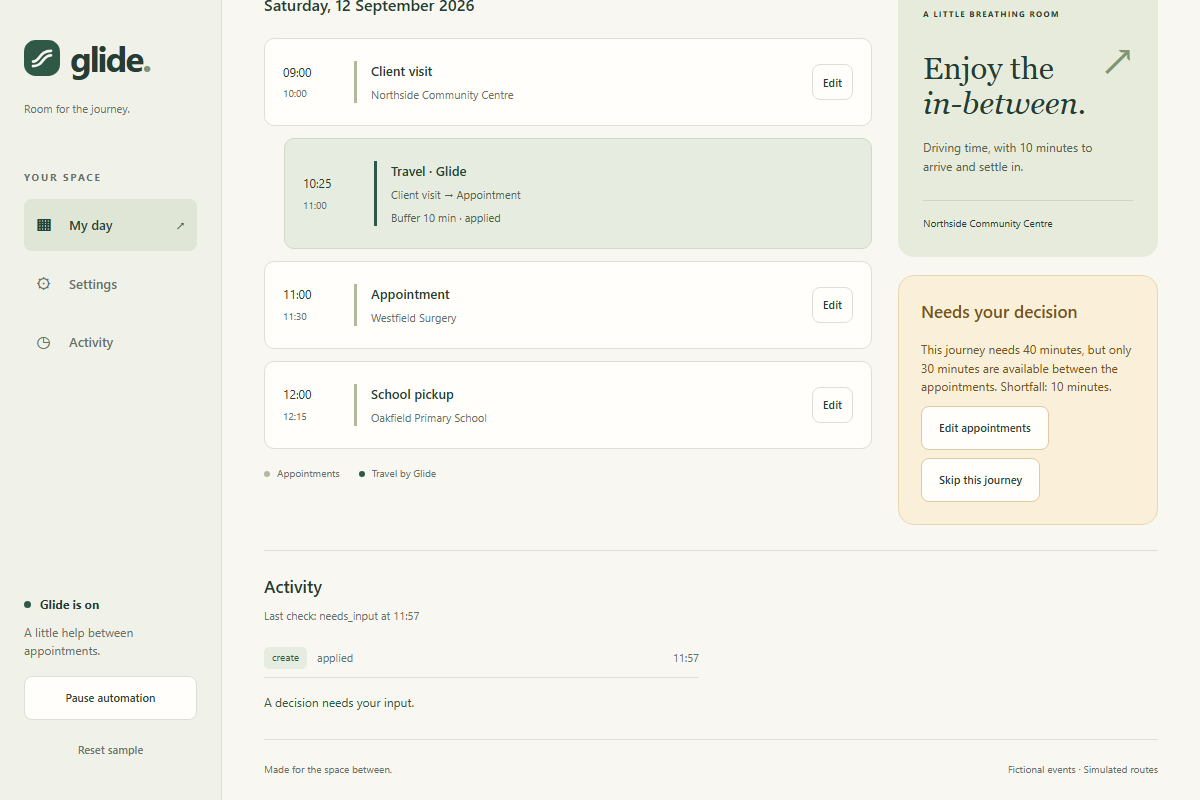
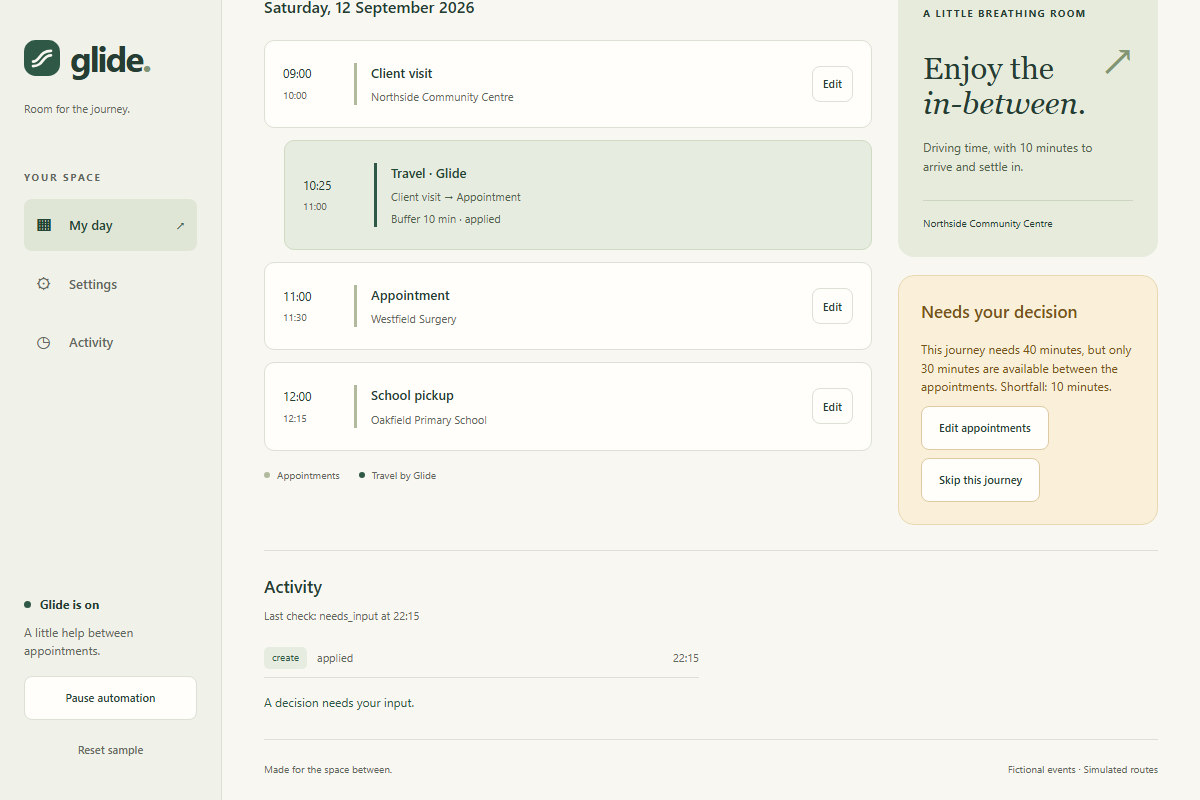
Publish the measured live proof and refresh the submission
evaluation.md now records what was measured against the deployed stack rather than what was planned: 20.7 s for the first live run with two travel blocks, ten consecutive terminal runs at 10.3-15.5 s, idempotent repeats, manual edit/deletion respected, a browser-closed scheduled run, and the four agent-loop defects the live runs exposed. The story, demo script, fields and release checklist are brought in line with that evidence, the style guide and live runbook pick up the shell/colour changes, and the screenshots are recaptured from the deployed build.

decisions.md records why managed blocks are coloured green in the primary calendar rather than living in a second calendar: it needs no new OAuth scope and so forces no reconnect.

diff --git a/docs/account-setup.md b/docs/account-setup.md
@@ -1,37 +1,21 @@
 # Glide account setup: your next actions
 
-Prepared 10 September 2026. The current requirement is to write Glide-owned
-travel events into the user's primary Google calendar. The application still
-needs changes before testing that behavior; the older separate-calendar setup
-instructions do not describe the requested release.
+Updated 11 September 2026. The current requirement is to write Glide-owned
+travel events into the user's primary Google calendar. The application and
+AWS deployment are complete; only the Google browser steps below remain.
 
 ## 1. AWS: establish a local login
 
-AWS CLI was not available on the command path during this review. Install the
-Windows AWS CLI v2 package using the [official installation guide](https://docs.aws.amazon.com/cli/latest/userguide/getting-started-install.html),
-then open a fresh PowerShell window. This session cannot install programs outside
-the project because its filesystem permissions are restricted.
+Done. AWS CLI v2 and SAM CLI are installed, the `glide` profile authenticates
+(root login session, `eu-west-1`), Amazon Location Places/Routes work, and
+Bedrock `eu.amazon.nova-2-lite-v1:0` answers real calls. The stack `glide` is
+deployed and the public site is `https://d3tvxy281s2u11.cloudfront.net`.
 
-For an ordinary AWS console login, run:
+No further AWS browser steps are required right now.
 
-```powershell
-aws --version
-aws login --profile glide
-```
-
-Complete the browser sign-in yourself. Start with `eu-west-1` if prompted for
-a region; model and routing availability still need verification. The login
-requires CLI v2.32.0 or newer and appropriate identity permissions. If you use
-IAM Identity Center, use its SSO setup instead. If a permission error appears,
-share its message without credentials. [AWS login instructions](https://docs.aws.amazon.com/cli/latest/userguide/cli-configure-sign-in.html)
-
-Tell the agent: **"AWS profile glide is signed in."** Do not paste keys or
-cached tokens. The agent can verify the account and SDK access, select the
-model, configure cost monitoring, and prepare SAM deployment.
-
-The repository now has an ignored `.env` with `AWS_PROFILE=glide` and
-`AWS_REGION=eu-west-1`. After signing in, load it into each new PowerShell
-window from the repository root with:
+The repository has an ignored `.env` with `AWS_PROFILE=glide` and
+`AWS_REGION=eu-west-1`. Load it into each new PowerShell window from the
+repository root with:
 
 ```powershell
 . .\scripts\load_env.ps1
@@ -47,8 +31,9 @@ window from the repository root with:
    For a personal Gmail test account, use an external testing audience and add
    the designated test account under test users.
 4. Under **Clients**, create a client of type **Web application** named
-   `Glide local and hosted`. Register this authorized redirect URI exactly:
-   `http://localhost:8000/api/auth/google/callback`.
+   `Glide local and hosted`. Register these authorized redirect URIs exactly:
+   `http://localhost:8000/api/auth/google/callback` and
+   `https://d3tvxy281s2u11.cloudfront.net/api/auth/google/callback`.
 5. Save the downloaded client configuration privately inside this repository
    at `secrets/google-oauth-client.json` (create the `secrets` folder if needed).
    If the console instead supplies individual values, save `GOOGLE_CLIENT_ID`
@@ -67,11 +52,10 @@ Glide-created events; the application must enforce that restriction itself.
 The old `calendar.app.created` scope cannot authorize primary-calendar writes.
 [Google Calendar scopes](https://developers.google.com/workspace/calendar/api/auth)
 
-Tell the agent the project ID and saved configuration path. The agent will wire
-the runtime settings and give you the hosted callback to register after the
-hosting address is known. Later, you will click Connect and consent in your
-browser. No call or screen-sharing session is required; remain available to
-complete these browser steps when prompted.
+The client configuration is already saved locally and wired into `.env`. When
+ready, tell the agent; you will click Connect and consent in your browser. No
+call or screen-sharing session is required; remain available to complete the
+browser steps when prompted.
 
 Import the downloaded web-client file into the ignored `.env`; this also
 generates the local cookie secret without printing either secret:

diff --git a/submission/release-checklist.md b/submission/release-checklist.md
@@ -19,21 +19,22 @@ Checked items require captured evidence; leave unchecked rather than claim.
 - [x] Durable sample sessions across worker instances
 - [x] Decision notification policy: once-only send, retry on failure, and a
       signed-in-only settings guard covered by tests
-- [ ] Real Google read/write with evidence. Consent done and tenant
-      `google:<subject>` is enabled, but every live run so far
-      failed `AgentProposalMissing` or stayed `queued`; the tenant has no
-      blocks, decisions, or receipts
-- [ ] Deployed agent-loop fix (turns 24 + prompt rules, currently in the
-      working tree) rebuilt, redeployed, and observed to reach a terminal
-      status on a live run
-- [ ] FIFO message group drains after that deploy; the four stuck runs finish
-      and the DLQ returns to zero
+- [x] Real Google read/write with evidence. Tenant
+      `google:<subject>`: two `Travel / Glide` blocks written in
+      20.7 s, ten consecutive live runs terminal (10.3-15.5 s), repeats
+      `unchanged`, manual edit/deletion respected, disconnect revoked the grant
+- [x] Deployed agent-loop fix (turns 24, prompt recipe, tool-first turns,
+      server-side `unknown_start`, fresh-agent repair) redeployed and observed
+      to reach a terminal status on live runs
+- [x] FIFO message group drains and both queues return to zero (job queue and
+      dead-letter queue 0 visible / 0 in flight)
 - [ ] Real SES decision email delivered once; an unresolved repeat sends
       nothing (needs a verified sending identity)
 - [x] Real Amazon Location place + route (live smoke, 513 s driving estimate)
 - [x] Real Bedrock Strands tool call (live smoke, `create feasible destination`)
 - [x] Ten consecutive canonical runs (fixture providers, deterministic runner)
-- [ ] Ten consecutive runs against live providers, identified
+- [x] Ten consecutive runs against live providers, identified (`live`,
+      Bedrock + Amazon Location + Google Calendar; 10.3-15.5 s each)
 
 ## Quality gates
 
@@ -44,19 +45,21 @@ Checked items require captured evidence; leave unchecked rather than claim.
 - [x] `scripts/validate_template.py` green
 - [x] Clean-copy setup trial (`scripts/clean_setup_trial.ps1`) green
 - [x] `sam validate --lint` green; Linux Lambda bundle built
-- [ ] Worker `ScalingConfig.MaximumConcurrency=2` codified in
-      `infra/template.yaml` (today it exists only on the live mapping)
+- [x] Worker `ScalingConfig.MaximumConcurrency=2` codified in
+      `infra/template.yaml`, with an offline validator check that fails if it
+      is dropped again; deploys with the next stack update
 - [ ] WAF rate-based rule on the distribution (N9; not started)
 - [ ] Two unfamiliar testers resolve a conflict unassisted
 - [x] AWS stack deployed (`glide`, eu-west-1); one deployed sample check
       completed through SQS/worker/Bedrock (one block, one decision)
-- [ ] Deployed move/recheck idempotency and scheduled browser-closed run observed
+- [x] Deployed repeat idempotency (all receipts `unchanged`) and a
+      browser-closed scheduled run reaching terminal status
 
 ## Release artifacts
 
 - [x] `docs/architecture.svg` + `docs/architecture.png` exported
 - [x] Git repository initialized with an initial commit (secrets audited out)
-- [ ] Public remote created and pushed; repo loads signed out
+- [x] Public remote created and pushed; repo loads signed out
 - [x] Deployed URL serves and `/api/health` returns ok (re-verify signed-out at
       submission)
 - [x] Four 3:2 gallery screenshots (landing, timeline, decision, activity)

diff --git a/submission/devpost-story.md b/submission/devpost-story.md
@@ -53,14 +53,20 @@ retry, or cold worker never repeats a message.
 
 ## Accomplishments
 
-Offline-verified as of 11 September 2026 (real-provider measurements are
-recorded only after the account setup below is complete):
+Verified on 11 September 2026 against the deployed stack, including the live
+Google account:
 
 - The browser workflow passes four end-to-end judge-path checks: sample day,
   conflict decision with a quantified ten-minute shortfall, resolve, recheck
   with two updated blocks and no duplicates, and reset. A repeat run records
   an `unchanged` receipt instead of a second calendar event.
-- 323 automated tests pass alongside lint, typecheck, and a production
+- Against the owner's real Google account the deployed agent wrote two
+  `Travel / Glide` blocks in 20.7 seconds, then completed ten consecutive
+  maintenance runs in 10.3-15.5 seconds each with no failures. Moving a Glide
+  block raised a `manual_edit` decision instead of overwriting it, deleting one
+  raised a `manually_deleted` decision instead of recreating it, and a run
+  scheduled with the browser closed finished on its own.
+- 326 automated tests pass alongside lint, typecheck, and a production
   build. The recovery matrix covers a worker crash after the first provider
   write, idempotent reruns, cross-tenant run access returning 404, and a
   padding change updating the block on recheck.
@@ -110,13 +116,19 @@ account was used, each now fixed with a regression test:
   be recreated on the next run. Ownership checks, manual-override guards,
   and revision-scoped skips now make those choices durable.
 
-The Google account is connected, but the deployed planner has not yet
-produced an accepted proposal: every live run so far ended
-`AgentProposalMissing` or stayed queued, so the first real calendar write is
-still outstanding. A prompt and turn-budget fix is in the working tree,
-pending a redeploy and re-verification. Ambiguous venues, OAuth test-token
-expiry, and timeout retries remain to be measured against real providers and
-will be added here with their outcomes.
+The live planner took four real defects to stabilize, each found by running
+the deployed worker against the real calendar rather than a fixture: the
+proposal schema advertised actions the validator always rejects, places
+resolved through `lookup_place` were not acceptable to `estimate_journey`, the
+model was asked to decide a start-address journey that had no start address,
+and the repair pass tried to continue a conversation Bedrock refuses after a
+turn-cap stop. With those fixed, the first live run completed in 20.7 seconds
+and wrote two travel blocks; ten consecutive live runs then completed in
+10.3-15.5 seconds each, repeats were idempotent, manually edited and manually
+deleted blocks were respected, and a scheduled run finished with the browser
+closed. A separate timezone bug made Glide's own blocks look hand-edited on
+every repeat, because the content hash compared a UTC write with a
+London-offset read.
 
 ## What we learned
 

diff --git a/docs/evaluation.md b/docs/evaluation.md
@@ -110,6 +110,50 @@ a one-retry guard for transient proxy keep-alive failures in the API client.
 - Known remaining issue: some deployed runs fail with `AgentProposalMissing`
   when the agent's turn budget is reached; this is being hardened.
 
+## Live Google proof (measured, 2026-09-11)
+
+Tenant: the owner's dedicated Google test account (primary calendar), driven
+through the deployed stack in `eu-west-1`. Fictional appointments were seeded
+for 12 September (Big Ben 09:30, The Shard 12:15, Canary Wharf 15:30, London)
+and deleted again after the run.
+
+- First live maintenance run: `needs_input` in **20.7 s**, two `Travel / Glide`
+  blocks written to the primary calendar, one `unknown_start` decision (no
+  start address configured), three source appointments untouched.
+- Idempotent repeat: both journeys returned `unchanged`/`noop` receipts, no
+  duplicate provider events, no false manual-edit decisions.
+- Manual edit: moving a Glide block raised a `manual_edit` decision
+  (`keep_manual_edit` / `replace_with_plan` / `skip_journey`) and the edited
+  block was not overwritten.
+- Manual deletion: deleting a Glide block raised a `manually_deleted` decision
+  (`recreate_journey` / `skip_journey`) and the block was not recreated.
+- Pause: a run while paused returned `paused` with no writes; resume restored
+  automation.
+- Ten consecutive live sequences: all ten reached a terminal status, latency
+  10.3-15.5 s (mean 11.3 s); receipts across the batch were `create: applied`
+  x2, `noop: unchanged` x3, `update: applied` x4; no failures.
+- Scheduled maintenance with the browser closed: the dispatcher reported
+  `enqueued: 1`, and the `trigger=schedule` run reached terminal `needs_input`
+  in DynamoDB.
+- Disconnect: `POST /api/auth/logout` returned `disconnected` with one warning
+  (manually edited travel events are kept); settings flipped to paused, a
+  later calendar read failed with a Google `RefreshError`, and
+  `/api/auth/status` reported `connected: false` with the provider still
+  available.
+- Alarms at close: `glide-api-5xx`, `glide-api-throttles`, `glide-dlq-depth`,
+  and `glide-worker-errors` all `OK`; job queue and dead-letter queue both 0
+  visible / 0 in flight.
+
+## Agent loop hardening (measured, 2026-09-11)
+
+Four defects made the deployed live loop fail with `AgentProposalMissing`:
+the proposal schema advertised actions the validator always rejects, places
+resolved through `lookup_place` were not acceptable to `estimate_journey`, the
+model was required to decide a `start_place` pair with no configured start
+address, and the repair pass continued a conversation Bedrock refuses after a
+turn-cap stop. After the fixes the real Nova Lite loop converged on the first
+pass in 5 tool calls and produced three accepted plans.
+
 ## Planned, not yet measured
 
 - Ten consecutive canonical integrated runs and how many used live providers.

diff --git a/submission/fields.md b/submission/fields.md
@@ -17,7 +17,8 @@ Owner-only entries are marked **[OWNER]**. Never invent these values.
 | Built With | `strands-agents-sdk`, `python`, `amazon-bedrock`, `amazon-location-service`, `google-calendar-api`, `amazon-ses`, `aws-lambda`, `amazon-eventbridge`, `amazon-sqs`, `amazon-dynamodb`, `amazon-s3`, `amazon-cloudfront`, `amazon-api-gateway`, `react`, `typescript`, `fastapi`, `aws-sam` |
 | Public repository | https://github.com/harveybellini/glide (public, default branch `main`, MIT detected, CI green, loads signed out) |
 | Video | [OWNER] public YouTube/Vimeo URL, ≤5 minutes |
-| Live demo URL | https://d3tvxy281s2u11.cloudfront.net (root and `/api/health` verified; re-verify signed-out at submission) |
+| Live demo URL | https://d3tvxy281s2u11.cloudfront.net (root and `/api/health` verified 11 Sep; the sample path is anonymous and simulated, the live path needs the owner's Google account - label it that way in the submission) |
+| Live proof | Owner's Google test account: two `Travel / Glide` blocks written in 20.7 s, ten consecutive live runs 10.3-15.5 s, repeats `unchanged`, manual edit/deletion respected, scheduled run terminal, grant revoked on disconnect (`docs/evaluation.md`) |
 | AWS Builder ID | [OWNER] real identifier |
 | Screenshots | 4 × 3:2 gallery from `submission/screenshots/`: `01-landing`, `02-timeline`, `03-decision`, `04-activity`; `05`-`08` hold the mobile and full-page design captures |
 | Eligibility/profile | [OWNER] checked against current official rules |
@@ -26,5 +27,5 @@ Owner-only entries are marked **[OWNER]**. Never invent these values.
 
 - [ ] Devpost shows **Submitted** with a receipt, not a saved draft.
 - [x] Repo loads signed out; MIT license detected; no secrets committed (tracked-file secret scan).
-- [ ] Live URL labeled with accurate synthetic/live wording.
+- [x] Live URL labeled with accurate synthetic/live wording (sample = simulated routes; live path = owner's Google account).
 - [ ] Optional AWS Builder article public before the deadline.

diff --git a/submission/demo-script.md b/submission/demo-script.md
@@ -1,8 +1,11 @@
 # Video script — target 4 minutes 30 seconds
 
-Record with real accounts. Bedrock, Amazon Location, and the deployed pipeline
-already have live evidence; Google consent is the remaining dependency. Actual
-values, not fixtures, appear on screen. Cut any beat whose evidence is missing.
+Record with real accounts. Bedrock, Amazon Location, Google Calendar, the
+deployed pipeline, and ten consecutive live runs already have evidence
+(`docs/evaluation.md`). The Google test account was disconnected after the
+proof run, so click **Connect Google Calendar** once at the start - that is the
+natural opening shot. Actual values, not fixtures, appear on screen. Cut any
+beat whose evidence is missing.
 
 ## 0:00–0:25 — Problem
 
@@ -29,9 +32,12 @@ Set the appointments so the next journey needs more time than exists. Show
 the quantified shortfall and the **Needs your decision** card. Edit the
 appointment, recheck, and show the block now fitting.
 
-As the shortfall appears, the phone shows the once-only email: name the
-problem, one link. Open it and land on this same card, outlined. Say that
-this is the only time Glide interrupts, and that a repeat check stays quiet.
+Optional beat (only if a verified Amazon SES sending identity and a
+`notification_email` on the tenant exist): as the shortfall appears, the phone
+shows the once-only email: name the problem, one link. Open it and land on this
+same card, outlined. Say that this is the only time Glide interrupts, and that
+a repeat check stays quiet. Otherwise say it in one sentence without showing
+the phone.
 
 ## 2:35–3:05 — Maintenance
 

diff --git a/docs/decisions.md b/docs/decisions.md
@@ -334,3 +334,21 @@ Planning date: 8 September 2026.
   the address) and leaves the decision unmarked, so the next scheduled check
   retries it; a crash between commit and send can therefore duplicate at most
   one message, which is the safe direction to fail.
+
+## 12 September
+
+- **Decision: managed travel blocks are green, and stay in the primary
+  calendar.** The request was to either give Glide its own calendar coloured
+  green or to colour the events green. Event colour wins on the record already
+  set on 10 September: a second calendar needs `calendar.app.created` (or
+  broader) consent to create and list it, which would force every existing
+  grant through a reconnect, while `colorId` on an event the app already owns
+  needs no new scope at all.
+- **Implementation.** `GoogleCalendarAdapter` sends Google's "Basil" green
+  (event palette id `10`) in every block body, so creates and content updates
+  both apply it. Blocks written before this change keep their current colour
+  until their next content update re-applies the body; there is no
+  write-on-read backfill, because `list_blocks` stays read-only.
+- **Consequences.** A colour-only manual edit to a Glide block is not treated
+  as a manual override, so the next reconciliation restores green. That is the
+  same rule as before for every other presentation field Glide owns.

diff --git a/docs/frontend-style-guide.md b/docs/frontend-style-guide.md
@@ -137,9 +137,13 @@ npm run screenshots
 
 The judge-path suite covers conflict detection, editing, rechecking, duplicate
 prevention, reset, settings, skip-link access, and persistent journey skipping.
-The design suite covers narrow layouts, automation controls, recoverable loading
-errors, and connected empty-day presentation. Screenshots are review artifacts,
-not pixel-diff assertions. Inspect the images as well as test results.
+The design suite covers narrow layouts, the 900/680/360 px and 200% zoom rules,
+automation controls, recoverable loading errors, and connected empty-day
+presentation. It also asserts this guide's contracts on every page and panel:
+palette tokens, serif and sans typography, eyebrow sizes, 44 px controls, input
+and card radii, focus colour, travel-block and decision treatments, and the
+button contract for live-mode decision actions. Screenshots are review
+artifacts, not pixel-diff assertions. Inspect the images as well as test results.
 
 The build output is `frontend/dist`. This redesign does not require backend or
 infrastructure changes. Deployment is a separate release operation; do not use

diff --git a/docs/live-proof-runbook.md b/docs/live-proof-runbook.md
@@ -46,12 +46,14 @@ region, and whether a no-route/throttle path was also observed.
 sample check also completed through the worker with one block and one
 decision.
 
-## 3. Google Calendar (consent done; live planner failing)
+## 3. Google Calendar (verified 11 September 2026)
 
-The owner's browser consent is complete: tenant
-`google:<subject>` exists with `enabled: true`. Its runs have not
-yet produced a proposal, so this section is the evidence checklist for the
-first successful live pass rather than a first-connect checklist.
+The owner's browser consent is complete and the live path is proven: tenant
+`google:<subject>` wrote two `Travel / Glide` blocks in 20.7 s,
+ten consecutive runs finished in 10.3-15.5 s, repeats were idempotent, manual
+edits and deletions were respected, a scheduled run finished with the browser
+closed, and the disconnect revoked the grant. The steps below are the
+re-runnable checklist; measurements live in `docs/evaluation.md`.
 
 1. Start the API and frontend (`uv run uvicorn glide.api.app:app --reload`
    plus `npm run dev` in `frontend/`).

diff --git a/README.md b/README.md
@@ -5,9 +5,10 @@ and reserves that time directly in the user's primary calendar. The first checke
 workflow is an isolated sample day with fictional events and deterministic routes.
 
 The MVP reads the primary calendar and never edits source appointments. Managed
-travel blocks are private, busy `Travel · Glide` events in that same calendar,
-identified by private extension properties and excluded from source planning;
-ordinary appointments are preserved, and the user's calendar is never deleted.
+travel blocks are private, busy, green `Travel · Glide` events in that same
+calendar, identified by private extension properties and excluded from source
+planning; ordinary appointments are preserved, and the user's calendar is never
+deleted.
 When a journey cannot fit, Glide explains the shortfall and sends at most one
 Amazon SES email per decision, linking straight to the highlighted card.
 Google sign-in is wired to the live workflow end to end: the OAuth callback stores

diff --git a/submission/screenshots/README.md b/submission/screenshots/README.md
@@ -1,7 +1,8 @@
 # Gallery screenshots
 
 Four recommended 3:2 screenshots, JPG/PNG, under 5 MB each (Devpost allows up
-to 15). Capture from the deployed sample once it exists; do not ship fixture
+to 15). Recapture from the deployed sample
+(https://d3tvxy281s2u11.cloudfront.net) before submission; do not ship fixture
 state mislabeled as live.
 
 | File | Shows |
